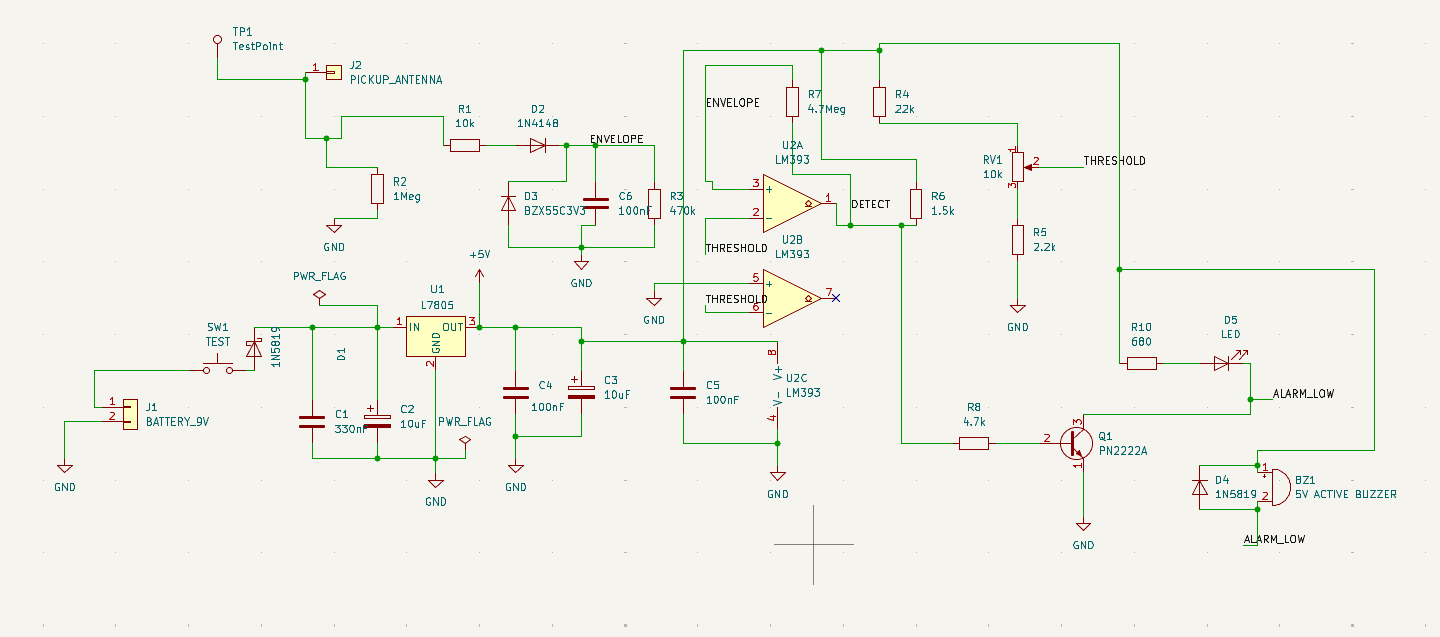
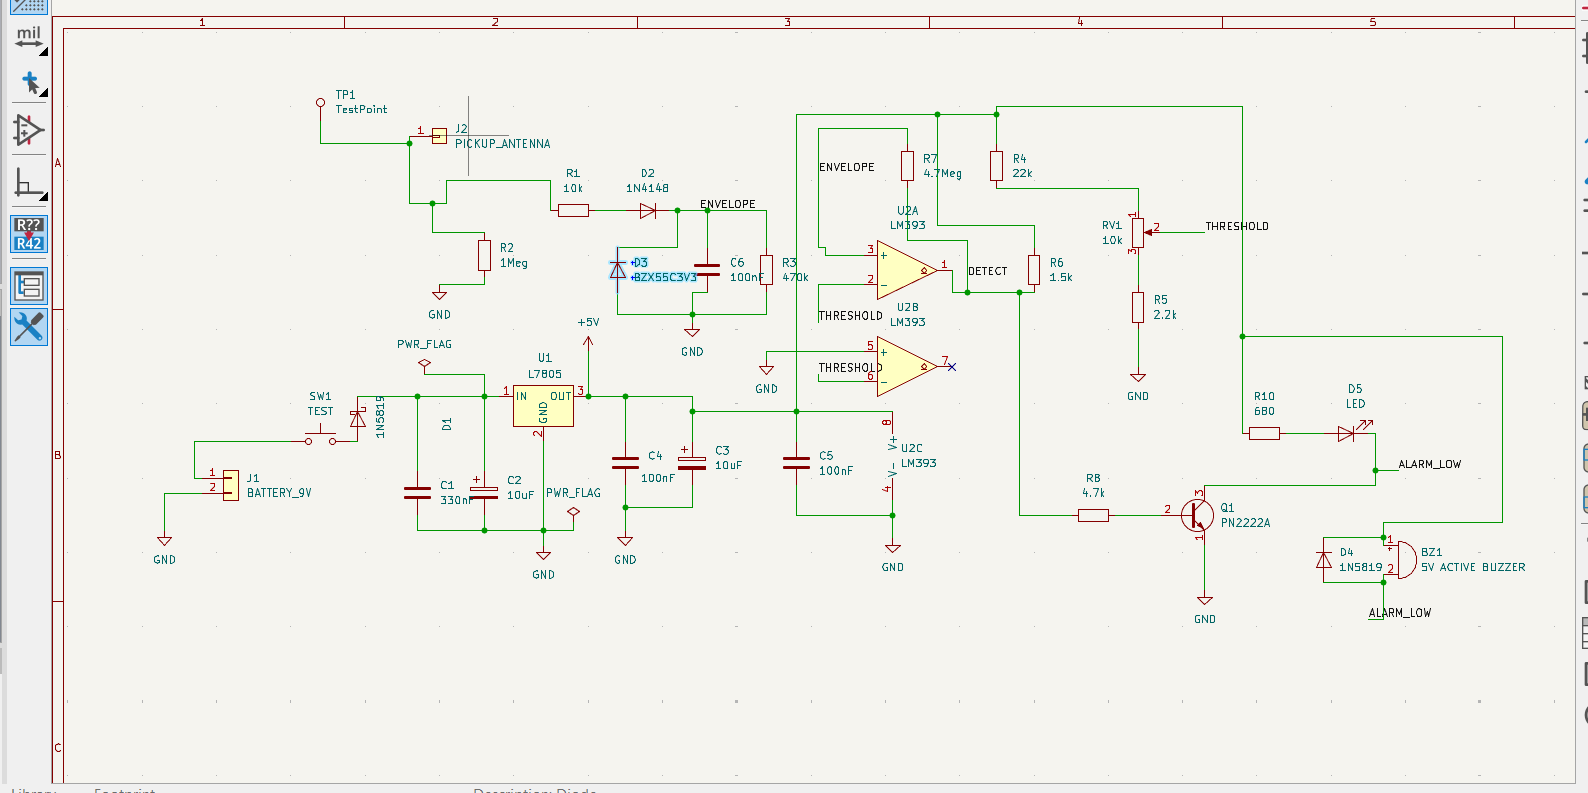
Add updated schematics and KiCad 3D view

diff --git a/docs/circuit-design.md b/docs/circuit-design.md
@@ -4,6 +4,8 @@
 
 The circuit detects the transient electric field associated with ignition-coil firing and gives an audible and visual indication. It is a firing-presence detector rather than a calibrated secondary-voltage or coil-energy tester.
 
+![LTspice simulation schematic](../images/ltspice-schematic.png)
+
 ## 1. Pickup conductor
 
 The KiCad PCB uses a snake/meander conductor on the front copper layer. J2 pin 1 connects the pickup net to the input conditioning circuit, and TP1 provides a test point. Copper-zone clearance is maintained around the complete meander, TP1 and feed trace to reduce unwanted capacitive loading.
@@ -65,4 +67,3 @@ The 680 Ω LED resistor gives a nominal current of roughly 4–5 mA, depending o
 The physical design uses a 9 V battery, normally-open momentary TEST pushbutton, reverse-polarity protection diode and L7805 regulator with bulk and 100 nF decoupling capacitors.
 
 The archived LTspice baseline instead uses an LT1117-5. Its two supply capacitors are entered as `10m`, which LTspice interprets as 10 mF. They must be changed to the intended value (likely `10u`) when synchronizing the simulation with the KiCad design.
-

diff --git a/docs/pcb-design.md b/docs/pcb-design.md
@@ -10,6 +10,8 @@ The current automated environment does not include `kicad-cli`, so that earlier 
 
 ![PCB layout](../images/pcb-layout.png)
 
+![KiCad 3D board view](../images/kicad-3d-board.png)
+
 ## Documented design decisions
 
 - Two-layer PCB with a front-copper meander pickup.
